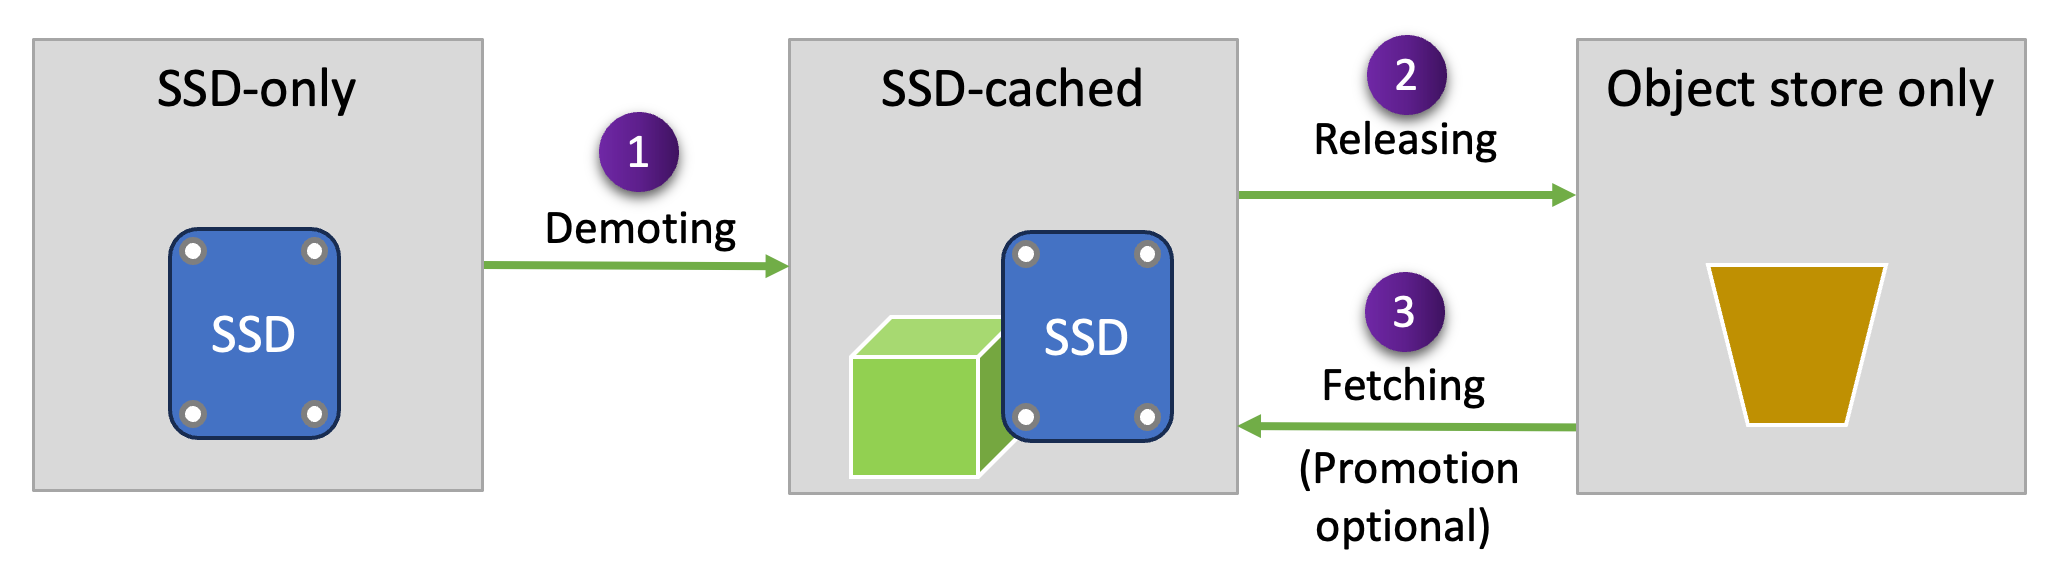
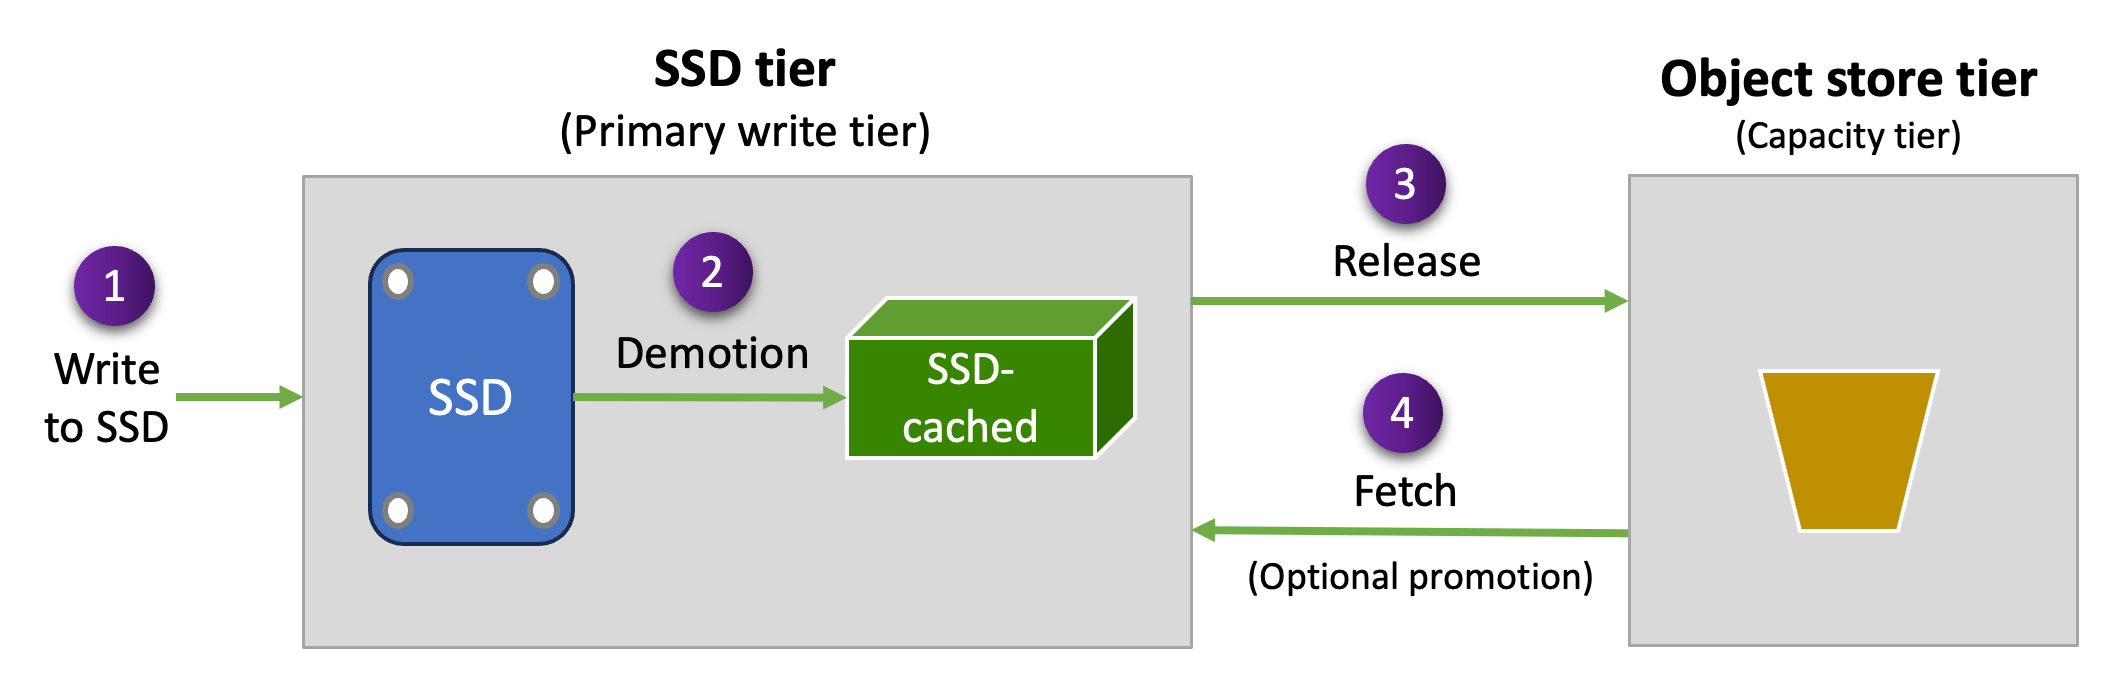
GITBOOK-63: Data lifecycle edits 2 | Alexander

diff --git a/weka-system-overview/data-storage.md b/weka-system-overview/data-storage.md
@@ -46,7 +46,7 @@ Tiered configurations allow the provisioning of a much larger total filesystem c
 
 Understanding data placement in a tiered system clarifies how WEKA balances performance and cost.
 
-#### **Metadata residency**
+### **Metadata residency**
 
 Metadata resides exclusively on SSDs and is never tiered to the object store. This includes directory structures, file attributes, timestamps, permissions, and internal indexes used to locate data.
 
@@ -54,22 +54,20 @@ Maintaining metadata on SSD ensures that filesystem traversal operations, such a
 
 This design enables efficient navigation of very large filesystems, including environments containing billions of files, while preserving predictable and low-latency metadata access.
 
-#### **Write operations**
+### **Write operations**
 
 Write operations in tiered systems always target SSDs first. Creating new files, appending to existing files, or modifying content occurs at SSD speeds.
 
 WEKA never writes directly to object store to avoid high latency in the write path. Instead, writes complete quickly on SSD, and the system manages the background process of copying data to object store based on configured policies.
 
-#### **Read operations and promotion**
+### **Read operations and promotion**
 
 Read operations access data from either storage tier based on the data’s current location:
 
 * **SSD resident data:** If the data resides on SSD (for example, because it has not been tiered or remains cached), the read operation completes at SSD performance.
 * **Object store resident data:** If the data exists only in the object store (OBS), WEKA retrieves the requested data and attempts to promote it to SSD. The scope of promotion depends on current system activity and resource availability. In optimal conditions, the entire dataset is promoted; however, promotion may be partial.
 
-Subsequent reads are served from SSD only if the relevant data has been fully promoted. If promotion is incomplete, additional reads may still access the object store. Promotion is therefore a performance optimization rather than a guarantee that all retrieved data will reside on SSD.
-
-This process is transparent to applications. Files are accessed through standard POSIX operations without requiring awareness of data location. The primary observable difference is increased latency during the initial access to data that resides in the object store.
+The system performs coordinated reads by serving all locally available data from the SSD while simultaneously fetching any missing segments from the object store. In this model, the SSD acts as a transparent cache layer. The system does not wait for full promotion to complete before using the local fragments to accelerate the request.
 
 ### Intelligent chunk-level management
 
@@ -83,56 +81,65 @@ The chunk-level approach enhances large file management. For database files wher
 
 Chunk-level granularity minimizes data movement. Modifying a specific section of a file, such as 10 MB within a 100 GB file, triggers a rewrite only for the modified chunks. These chunks restart their lifecycle on the SSD. Unchanged chunks maintain their current lifecycle on the SSD or object store. This approach avoids the resource cost of reprocessing the entire file when only a small portion changes.
 
-### Data lifecycle states
+### Data placement conditions
 
-In a tiered configuration, data progresses through three distinct states representing its current storage location. These states apply to data chunks rather than entire files, meaning a single file can simultaneously have chunks in different states.
+In a tiered configuration, data progresses through three placement conditions that reflect where it currently resides across storage tiers.
 
-* **SSD-only:** Represents newly created or recently modified data residing exclusively on SSDs. This is the initial state for all data entering the system before it is copied to object store.
-* **SSD-cached:** Represents data existing in both the SSD and object store tiers. After the tiering process copies data to object store, the SSD copy serves as a cache to ensure fast access, while the object store copy provides authoritative long-term retention. Data often remains in this state for significant periods to optimize read performance.
-* **Object store only:** Represents data released from the SSD after its cache retention period expires. The data resides solely in object store. Accessing this data triggers a promotion process to restore it to the SSD. This state maximizes storage efficiency but incurs higher latency during the initial read.
+These conditions apply at the data-chunk level rather than the file level. As a result, a single file may simultaneously contain chunks in different placement conditions.
 
-Identifying these states clarifies system behavior. SSD-cached data ensures low-latency reads. Conversely, accessing data in the object-store-only state requires fetching it from object store, resulting in initial latency before subsequent accesses return to SSD speeds.
+* **SSD-only:** Represents newly created or recently modified data residing exclusively in the SSD tier. This is the initial placement for all data entering the system before it is copied to the object store tier.
+* **SSD-cached:** Represents data that exists in both the SSD tier and the object store tier. After tiering copies data to the object store, the SSD copy continues to provide low-latency access, while the object store copy provides durable capacity storage. Data may remain in this condition for extended periods to optimize performance.
+* **Object-store-only:** Represents data that has been removed from the SSD tier after its retention eligibility or capacity-based release. The data resides solely in the object store tier. Accessing this data requires retrieval from the object store, which may introduce initial read latency.
 
-### Core data movement processes
+Understanding these placement conditions clarifies system behavior:
 
-Data movement between storage states is governed by tiering, which is the overarching lifecycle mechanism that manages transitions between SSD and object store. Tiering consists of three primary processes:
+* Data present in the SSD tier supports low-latency reads.
+* Data residing only in the object store tier must be retrieved before access performance returns to SSD-level speeds.
+* Tiering continuously evaluates and adjusts data placement according to policy and system conditions.
 
-* **Demoting** (SSD → SSD-cached)
-* **Releasing** (SSD-cached → Object store only)
-* **Fetching** (Object store → Active read path, with potential promotion to SSD)
+### Tiering processes
 
-These processes execute automatically according to configured policies and real-time system conditions.
+Tiering is the automated mechanism that moves data between storage tiers. In an object-store configuration, tiering governs how data transitions between the SSD tier and the object store tier over time.
+
+Object-store tiering consists of four core processes:
+
+1. Write to SSD
+2. Demotion
+3. Release
+4. Fetch
+
+These processes operate automatically based on configured policies and real-time system conditions.
 
 ![Tiering processes](../.gitbook/assets/tiering_processes.png)
 
-#### Demoting
+#### Write to SSD
 
-Demoting is the process of copying data from SSD to the object store, creating a duplicate copy while retaining the SSD copy. This transitions data from the SSD-only state to the SSD-cached state.
+All new data is written to the SSD tier. This ensures low-latency write performance and immediate availability. After write completion, data becomes eligible for tiering operations.
 
-The Tiering Cue policy controls when demotion begins. It defines the delay between data write completion and the start of the copy operation to the object store. This delay prevents unnecessary object-store writes for data that may be modified or deleted shortly after creation.
+#### Demotion
 
-Demotion runs as a background operation and does not affect application access or data availability.
+Demotion copies data from the SSD tier to the object store tier while retaining the SSD copy. After demotion completes, data exists in both tiers.
 
-#### Releasing
+The Tiering Cue policy controls when demotion begins. It defines the delay between write completion and initiation of the copy operation to the object store. This delay helps avoid unnecessary object-store writes for data that may be modified or deleted shortly after creation.
 
-Releasing removes data from SSD after it has been successfully demoted (copied) to the object store, transitioning it from the SSD-cached state to the object store–only state.
+Demotion runs as a background process and does not interrupt data access.
 
-Releasing can occur due to either of two independent triggers:
+#### Release
 
-* **SSD space pressure:** When the system requires SSD capacity for new or active data, it may release cached data to free space.
-* **Retention Period expiration:** When the configured Retention Period elapses, cached data becomes eligible for release, even if there is no immediate SSD capacity constraint.
+Release removes the SSD copy after the object store copy has been successfully created. Following release, data resides only in the object store tier.
 
-These triggers operate independently. Data may be released because the retention timer expired, because SSD space is needed, or due to a combination of both factors.
+Release may occur due to:
 
-#### Fetching (with potential promotion)
+* SSD capacity requirements, or
+* Expiration of the configured retention period.
 
-Fetching occurs when an application accesses data that resides only in the object store. The system retrieves the requested data to satisfy the read operation.
+These triggers operate independently and may act together.
 
-During fetching, the system may attempt to promote the retrieved data back to SSD. Promotion is opportunistic and depends on current workload and resource availability. In optimal conditions, the entire dataset is promoted; however, promotion may be partial.
+#### Fetch
 
-Subsequent reads are served from SSD only if the relevant data has been fully promoted. If promotion is incomplete, later reads may still require access to the object store. Promotion is therefore a performance optimization rather than a guarantee.
+Fetch occurs when data residing only in the object store tier is accessed. The system retrieves the requested data to satisfy the read operation.
 
-Fetched or promoted data that is placed on SSD receives a refreshed lifecycle state and may later undergo demotion and release according to policy.
+Depending on system conditions and policy, the retrieved data may be placed back on the SSD tier. This placement is opportunistic and intended to improve subsequent access performance.
 
 ## Role of SSDs in tiered systems
 
@@ -204,10 +211,38 @@ Configure lifecycle policies at the filesystem group level to align with specifi
 
 ### Bypassing standard lifecycle policies
 
-While time-based policies manage most data workflows, WEKA provides mechanisms for immediate action when needed:
+While time-based policies govern typical tiering behavior, the system provides mechanisms for situations that require immediate or policy-independent data movement.
 
-* **Snap-to-Object:** Forces data to tier immediately to the object store. It uploads metadata only and does not count toward SSD or primary storage capacity, making it ideal for backup workflows that require rapid persistence without affecting storage metrics.
-* **Object-store direct mount (`obs_direct`):** Bypasses the SSD cache for specific mount points. Writes go directly to the object store, and reads access object storage directly. Ideal for bulk imports that need to bypass SSD caching.
+#### **Snap to Object**
+
+Snap to Object forces data to tier immediately to the object store tier.
+
+When triggered, the system uploads:
+
+* All associated metadata, and
+* Any data that is not yet present in the object store.
+
+Metadata stored in the object store is not accounted toward object-store capacity usage.
+
+Snap to Object is commonly used in backup or rapid-persistence workflows where data must be made durable in the object store immediately, without waiting for standard tiering delays.
+
+#### **Object-store direct mount (`obs_direct`)**
+
+Object-store direct mount modifies the standard tiering flow for specific mount points.
+
+*   **Write behavior:**&#x20;
+
+    * Data is written to the SSD tier first.
+    * It is immediately scheduled for upload to the object store tier.
+    * After successful upload, the data is promptly released from SSD.
+
+    This minimizes SSD residency time while preserving the system’s write-path integrity.
+*   **Read behavior:**
+
+    * Reads retrieve data directly from the object store tier.
+    * Retrieved data is not promoted to the SSD tier.
+
+    This mode is suitable for workflows such as large-scale data ingestion or bulk imports where SSD caching is not required and capacity efficiency is prioritized.
 
 **Related topics**
 

diff --git a/weka-filesystems-and-object-stores/tiering.md b/weka-filesystems-and-object-stores/tiering.md
@@ -83,7 +83,7 @@ Understanding the lifecycle of data in a tiered system helps predict performance
 
 All data written to a tiered filesystem initially lands on the SSD tier. The system does not write directly to the object store, ensuring write completion at SSD latency.
 
-Upon ingestion, the system assigns a creation timestamp to the data. This timestamp serves as the reference for subsequent tiering decisions. At this stage, the data resides exclusively on the SSD (write-cache state).
+Upon ingestion, the system assigns a creation timestamp to the data. This timestamp serves as the reference for subsequent tiering decisions. At this stage, the data resides exclusively on the SSD (write-cache).
 
 **Chunk-level management:** The system tracks modifications at a fine granularity, maintaining timestamps per data chunk (up to 1 MB) rather than per file. When an application modifies a specific chunk within a large file, only that chunk’s timestamp is refreshed.
 
@@ -99,7 +99,7 @@ Once the Tiering Cue period expires for a chunk, the system begins copying that 
 
 ### Retention and release
 
-After copying to the object store, data enters the read cache state, existing on both the SSD and the object store. The SSD copy remains available for fast access according to the configured Drive Retention Period.
+After copying to the object store, data enters the read-cache placement condition, existing on both the SSD and the object store. The SSD copy remains available for fast access according to the configured Drive Retention Period.
 
 **Release process:** When cached data exceeds the retention period, the system releases it by removing the SSD copy while preserving the object store copy. This frees SSD capacity for newer data. The system prioritizes releasing the oldest cached data first.
 
@@ -170,9 +170,9 @@ The Tiering Cue policy defines when data becomes _eligible_ for tiering, not whe
 
 Policy violations and early releases occur specifically due to capacity or throughput constraints on the retention side (how long data stays cached), never due to the tiering cue itself.
 
-## Monitor system state
+## Monitor system status
 
-Effective management of a tiered WEKA system requires visibility into capacity utilization, space reclamation status, and data distribution. Use the available tools to monitor the system state and interpret the metrics.
+Effective management of a tiered WEKA system requires visibility into capacity utilization, space reclamation status, and data distribution. Use the available tools to monitor the system status and interpret the metrics.
 
 ### View capacity and reclamation status
 
@@ -220,38 +220,42 @@ weka fs tier location <path> [paths...]
 * `[paths...]`: Space-separated list of paths to investigate.
 * `*` (Wildcard): Retrieves location information for all files in a specific directory (for example, `weka fs tier location /mnt/data/*`).
 
-#### Lifecycle location states
+#### Data lifecycle placement conditions
 
-The command output reveals the file's lifecycle state based on which storage tier consumes capacity.
+The command output reveals the file's placement condition based on which storage tier consumes capacity.
 
 **1. Before tiering (SSD write-cache)**
 
-This is the initial state for any new or modified data. The data resides exclusively on the SSD to ensure maximum write performance. At this stage, the file is considered "hot" and has not yet been asynchronously pushed to the backend object store.
+This is the initial placement condition for any new or modified data. The data resides exclusively on the SSD to ensure maximum write performance. At this stage, the file is considered frequently accessed and has not yet been asynchronously pushed to the backend object store.
 
 * **Capacity in SSD (write-cache):** The total amount of high-performance SSD space currently occupied by new or modified data blocks that are pending tiering.
+* **Capacity in SSD (read-cache):** 0 B, as the data has not yet been replicated to the backend storage.
 * **Capacity in object store:** 0 B, as the data has not yet been replicated to the backend storage.
 
 **Example:** In this scenario, a 102.39 MB file has been written to the filesystem but the tiering process to the object store has not yet commenced.
 
+{% code fullWidth="false" %}
 ```bash
 $ weka fs tier location image
 PATH   FILE TYPE  FILE SIZE  CAPACITY IN SSD (WRITE-CACHE)  CAPACITY IN SSD (READ-CACHE)  CAPACITY IN OBJECT STORAGE
 image  regular    102.39 MB  102.39 MB                      0 B                           0 B
 ```
+{% endcode %}
 
-**2. Tiered and retained (SSD read-cache + object store)**
+**2. Tiered and retained storage (SSD read-cache + object store)**
 
-A file enters this state when its data resides in the object store for long-term protection but is also present on the SSD for performance. This can happen in two ways:
+This condition occurs when a file's data is stored long-term in an object store while also residing on an SSD for enhanced performance. This happens in two cases:
 
-* **Retention:** The file has successfully tiered to the object store, but the Drive Retention Period has not yet elapsed, keeping the local copy active.
-* **Promotion:** The file was previously residing only in the object store, but a recent "read" operation triggered a promotion, caching the data back onto the SSD.
+* **Retention:** The file is moved to the object store, but the Drive Retention Period keeps a local SSD copy.
+* **Promotion:** A file previously only in the object store is cached on the SSD after a "read" operation.
 
-This state provides maximum data protection (durable copy in object storage) while maintaining low-latency access (local copy on SSD).
+This placement ensures data protection with a durable object store copy and low-latency access from the local SSD.
 
-* **Capacity in SSD (read-cache):** The total amount of physical SSD space currently occupied by the file's data blocks.
-* **Capacity in object store:** The total footprint of the file's data as stored in the backend bucket/container.
+* **Capacity in SSD (write-cache):** 0 B. No SSD space currently occupied.
+* **SSD capacity (read-cache):** The total physical SSD space occupied by the file's data blocks.
+* **Object store capacity:** The file's data footprint in the backend bucket/container.
 
-**Example:**  In this scenario, a 102.39 MB file is fully protected in the object store but remains fully accessible on the SSD flash layer.
+**Example:** A 102.39 MB file is securely stored in the object store while easily accessible on the SSD flash layer.
 
 ```bash
 $ weka fs tier location image
@@ -261,16 +265,16 @@ image  regular    102.39 MB  0 B                            102.39 MB           
 
 **3. Released (object store only)**
 
-A file enters this state once the Drive Retention Period has expired and the local SSD copy has been evicted to free up high-performance space for other frequently used data. The file remains fully protected and accessible, but its primary residence is now the object store.
+Once the Drive Retention Period expires, and the local SSD copy is removed to free up high-performance space, the file transitions to its primary residence in the object store. It remains fully protected and accessible.
 
 {% hint style="info" %}
-Accessing a file in this state triggers a "promotion," where the system fetches the data back from the object store to the SSD, temporarily increasing latency for the initial read.
+When accessing a file in this condition, a "promotion" occurs. The system retrieves the data from the object store to the SSD, which temporarily increases latency for the initial read.
 {% endhint %}
 
-* **Capacity in SSD (Write/Read Cache):** 0 B, as no data blocks are currently occupying physical space on the local SSD layer.
-* **Capacity in Object Store:** The total footprint of the file's data as stored in the backend bucket/container.
+* **Capacity in SSD (write-cache/read cache):** 0 B, as no data blocks are currently occupying physical space on the local SSD layer.
+* **Capacity in object store:** The total footprint of the file's data as stored in the backend bucket/container.
 
-**Example:** In this scenario, the 102.39 MB file has been successfully tiered and the local cache has been cleared.
+**Example:** A 102.39 MB file has been tiered, and the local cache has been cleared successfully.
 
 ```bash
 $ weka fs tier location image
@@ -329,7 +333,7 @@ weka fs tier fetch <path> [--verbose]
 
 #### Batch fetching
 
-To fetch large directory trees efficiently, combine the command with Unix tools to parallelize the operation:
+To fetch large directory trees efficiently, for example, combine the command with Unix tools to parallelize the operation.&#x20;
 
 ```bash
 find -L <directory_path> -type f | xargs -r -n512 -P64 weka fs tier fetch -v
@@ -384,8 +388,8 @@ The `obs_direct` mount option enables a special operational mode that bypasses r
 
 **System behavior:**
 
-* **Writes:** Data is initially written to the SSD and immediately scheduled for release to the object store. This means data temporarily consumes SSD write-cache space during transit. If the Object Store (OBS) ingest speed is slower than the incoming write rate, this can lead to SSD cache pressure or performance bottlenecks.
-* **Reads:** Data is retrieved from object storage to serve the request and is immediately released again without being cached on the SSD.
+* **Writes:** Data is initially written to the SSD and immediately scheduled for release to the object store. This means data temporarily consumes SSD write-cache space during transit.
+* **Reads:** Data is retrieved from object storage to serve the request and not promoted to SSD.
 
 **Use case:** Use this mode for bulk data imports (migrations) where the target destination is object storage. It ensures incoming data flows to the object store without occupying the SSD cache long-term.
 
